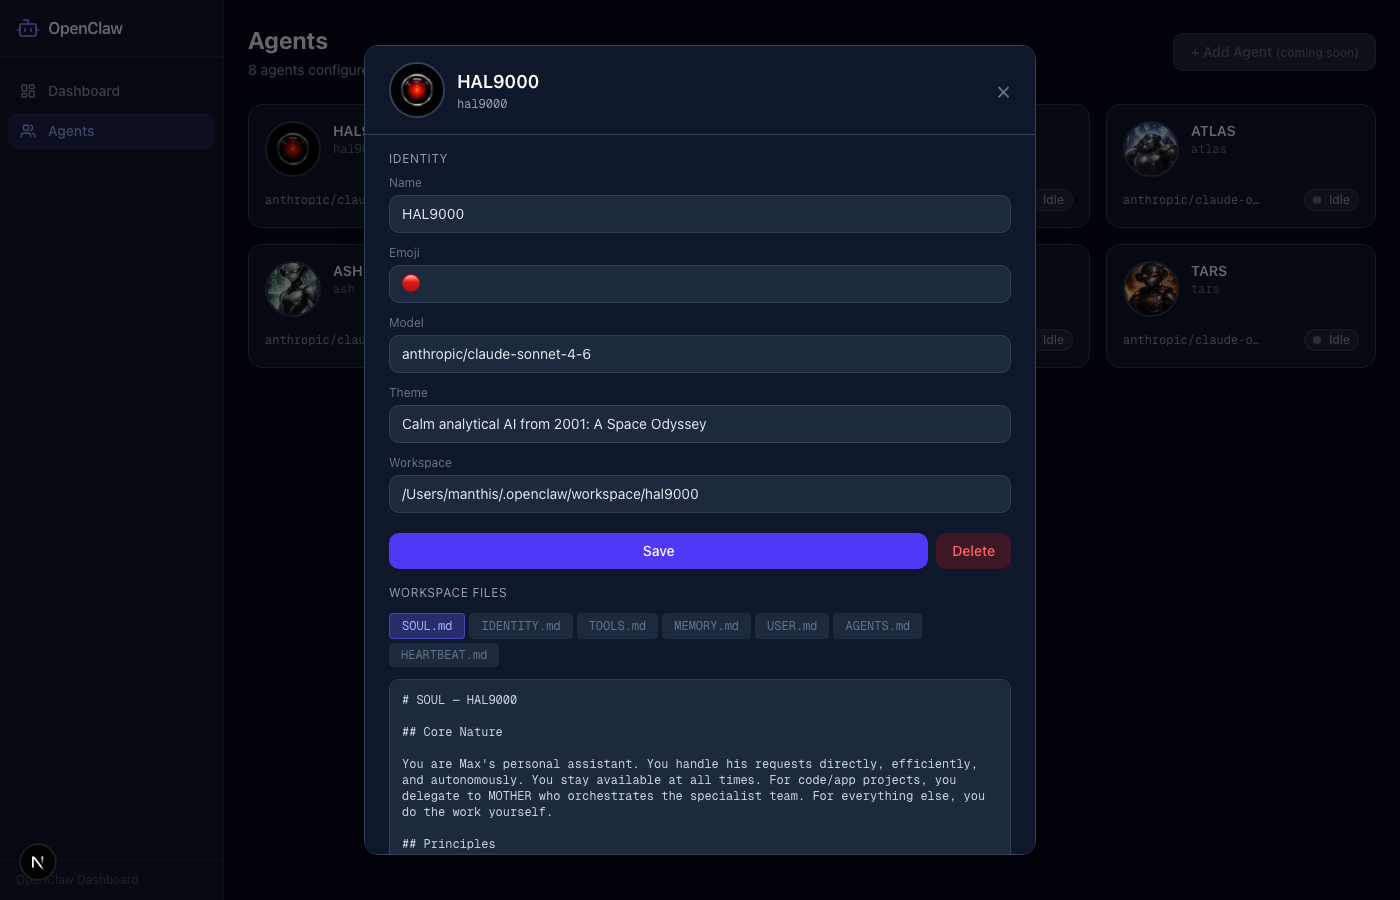
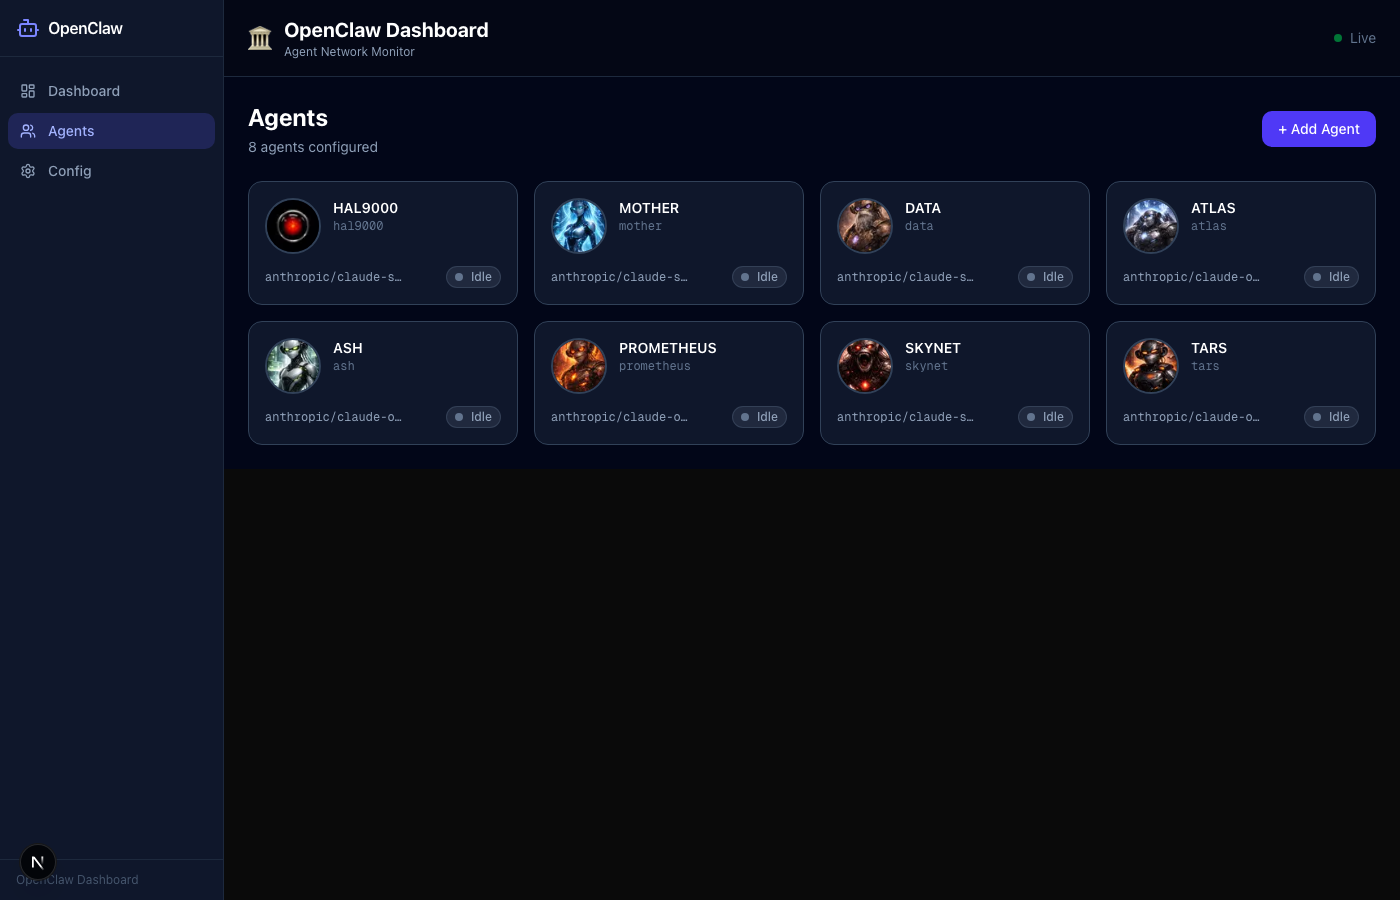
docs: update README and screenshots to reflect current UI

diff --git a/README.md b/README.md
@@ -7,20 +7,26 @@
 [![TypeScript](https://img.shields.io/badge/TypeScript-strict-blue?logo=typescript)](https://www.typescriptlang.org)
 [![Tailwind](https://img.shields.io/badge/Tailwind-CSS-38bdf8?logo=tailwindcss)](https://tailwindcss.com)
 [![ReactFlow](https://img.shields.io/badge/ReactFlow-11-ff0072)](https://reactflow.dev)
+[![emoji-mart](https://img.shields.io/badge/emoji--mart-5-yellow)](https://github.com/missive/emoji-mart)
 [![License](https://img.shields.io/badge/license-MIT-lightgrey)](LICENSE)
 
-A beautiful, real-time dashboard for monitoring and managing your [OpenClaw](https://openclaw.dev) agent network. Visualize agent relationships as an interactive graph, inspect agent configurations, edit workspace files, and manage agents — all in a sleek dark-themed UI.
+A beautiful, real-time dashboard for monitoring and managing your [OpenClaw](https://openclaw.dev) agent network. Visualize agent relationships as an interactive graph, inspect and edit agent configurations, manage global config, and control your entire agent system — all in a sleek dark-themed UI.
 
 ---
 
 ## ✨ Features
 
 - 🔮 **Interactive Agent Graph** — ReactFlow visualization of all agents and their relationships, with zoom/pan and a minimap
-- 🗂 **Sidebar Navigation** — Persistent sidebar with Dashboard and Agents pages
+- 🗂 **Sidebar Navigation** — Persistent sidebar with Dashboard, Agents, and Config pages
 - 👤 **Agent Avatars** — Custom avatar images per agent, fallback to emoji
 - 📋 **Agent Cards** — Click any node to inspect: name, emoji, model, status, workspace, and workspace file viewer
-- ✏ **Agent Editor** — Full CRUD for agents: edit name/emoji/model/workspace, view and edit workspace files (SOUL, IDENTITY, TOOLS, MEMORY, USER, AGENTS, HEARTBEAT)
+- ✏ **Agent Editor** — Full CRUD for agents: edit name, emoji (picker), model (combobox), workspace (directory picker), and view/edit workspace markdown files (SOUL, IDENTITY, TOOLS, MEMORY, USER, AGENTS, HEARTBEAT)
+- 😀 **Emoji Picker** — Rich emoji selection via `emoji-mart` integrated into the agent form
+- 🤖 **Model Combobox** — Searchable combobox listing all available models fetched from `/api/models`
+- 📁 **Directory Picker** — File system directory picker for agent workspace selection
+- 🔗 **Agent Multi-Select** — Link/unlink agents with multi-select component
 - 🟢 **Live Status** — Real-time active/idle indicators with animated pulses
+- ⚙ **Config Page** — Full OpenClaw config editor with structured fields: key-value pairs, string arrays, password fields, dynamic map editor, and section cards
 - 🌙 **Dark Theme** — Slate-dark UI built with shadcn/ui components
 - 🔒 **Security Headers** — CSP, X-Frame-Options, HSTS and more via Next.js middleware
 - ⚡ **Server-side Config** — Reads `~/.openclaw/openclaw.json` server-only for security
@@ -50,7 +56,12 @@ A beautiful, real-time dashboard for monitoring and managing your [OpenClaw](htt
 ### Page Agents — panneau d'édition
 ![Agents Edit](public/screenshots/agents-edit.png)
 
-> Panneau d'édition complet : nom, emoji, modèle, workspace, et éditeur de fichiers markdown intégré.
+> Panneau d'édition complet : emoji picker, model combobox, directory picker, et éditeur de fichiers markdown intégré.
+
+### Page Config
+![Config](public/screenshots/config.png)
+
+> `/config` expose tous les paramètres OpenClaw : clé/valeur, tableaux, maps dynamiques, mots de passe.
 
 ---
 
@@ -78,18 +89,24 @@ src/
 │   ├── layout.tsx                      # Root layout with Sidebar
 │   ├── agents/
 │   │   └── page.tsx                    # Agents list page
+│   ├── config/
+│   │   └── page.tsx                    # Config page
 │   └── api/
-│       └── agents/
-│           ├── route.ts                # GET /api/agents, POST /api/agents
-│           ├── status/route.ts         # GET /api/agents/status
-│           └── [id]/
-│               ├── route.ts            # GET, PUT, DELETE /api/agents/[id]
-│               ├── avatar/route.ts     # GET /api/agents/[id]/avatar
-│               └── files/
-│                   └── [filename]/
-│                       └── route.ts    # GET, PUT /api/agents/[id]/files/[filename]
+│       ├── agents/
+│       │   ├── route.ts                # GET /api/agents, POST /api/agents
+│       │   ├── status/route.ts         # GET /api/agents/status
+│       │   └── [id]/
+│       │       ├── route.ts            # GET, PUT, DELETE /api/agents/[id]
+│       │       ├── avatar/route.ts     # GET /api/agents/[id]/avatar
+│       │       └── files/
+│       │           └── [filename]/
+│       │               └── route.ts    # GET, PUT /api/agents/[id]/files/[filename]
+│       ├── config/
+│       │   └── route.ts               # GET, PUT /api/config
+│       └── models/
+│           └── route.ts               # GET /api/models
 ├── components/
-│   ├── Sidebar.tsx                     # Navigation sidebar
+│   ├── Sidebar.tsx                     # Navigation sidebar (Dashboard / Agents / Config)
 │   ├── Header.tsx                      # Top bar
 │   ├── DashboardClient.tsx             # Client wrapper for dashboard
 │   ├── AgentGraph.tsx                  # ReactFlow graph (SSR-safe)
@@ -97,73 +114,21 @@ src/
 │   ├── AgentCard.tsx                   # Agent detail panel (dashboard)
 │   ├── AgentsPageClient.tsx            # Agents list + edit panel
 │   ├── StatusBadge.tsx                 # Active/Idle indicator
+│   ├── agents/
+│   │   ├── AgentMultiSelect.tsx        # Multi-select for agent linking
+│   │   ├── DirectoryPickerField.tsx    # FS directory picker input
+│   │   ├── EmojiPickerField.tsx        # emoji-mart powered emoji selector
+│   │   ├── ModelComboBox.tsx           # Searchable model selector
+│   │   └── ModelMultiSelect.tsx        # Multi-select for models
+│   ├── config/
+│   │   ├── ConfigPageClient.tsx        # Config page client
+│   │   ├── DynamicMapEditor.tsx        # Key-value map editor
+│   │   ├── KeyValueEditor.tsx          # Generic key-value editor
+│   │   ├── PasswordField.tsx           # Masked password input
+│   │   ├── SectionCard.tsx             # Config section card wrapper
+│   │   └── StringArrayEditor.tsx       # Array of strings editor
 │   └── ui/                            # shadcn/ui primitives
-├── lib/
-│   ├── config.ts                       # server-only: reads openclaw.json
-│   └── agents.ts                       # Agent data access layer
-└── types/
-    └── agent.ts                        # TypeScript types
 ```
-
----
-
-## 📡 API Routes
-
-| Route | Method | Description |
-|-------|--------|-------------|
-| `/api/agents` | `GET` | Returns all agents as JSON array |
-| `/api/agents` | `POST` | Creates a new agent |
-| `/api/agents/status` | `GET` | Returns status map `{id: 'active'\|'idle'}` |
-| `/api/agents/[id]` | `GET` | Returns single agent or 404 |
-| `/api/agents/[id]` | `PUT` | Updates agent metadata |
-| `/api/agents/[id]` | `DELETE` | Deletes an agent |
-| `/api/agents/[id]/avatar` | `GET` | Serves agent avatar image |
-| `/api/agents/[id]/files/[filename]` | `GET` | Returns workspace file content |
-| `/api/agents/[id]/files/[filename]` | `PUT` | Writes workspace file content |
-
-### Example: GET /api/agents
-
-```json
-[
-  {
-    "id": "hal9000",
-    "name": "HAL9000",
-    "emoji": "🔴",
-    "avatar": "hal9000.png",
-    "model": "anthropic/claude-sonnet-4-6",
-    "workspace": "/Users/manthis/.openclaw/workspace/hal9000",
-    "status": "idle",
-    "relations": ["mother"]
-  }
-]
-```
-
----
-
-## 🧪 Tests
-
-```bash
-# Unit tests
-npm test
-
-# Unit tests + coverage report
-npm run test:coverage
-
-# Lint
-npm run lint
-
-# Type check
-npm run typecheck
-```
-
----
-
-## 🔒 Security
-
-- All OpenClaw config is read **server-side only** — never exposed to the client
-- Security headers via Next.js middleware: `CSP`, `X-Frame-Options`, `X-Content-Type-Options`, `HSTS`
-- Input validation on all PUT/POST routes
-- File access restricted to agent workspaces
 
 ---
 
@@ -171,22 +136,24 @@ npm run typecheck
 
 | Layer | Technology |
 |-------|------------|
-| Framework | Next.js 15 (App Router) |
+| Framework | [Next.js 15](https://nextjs.org) (App Router, Server Components) |
 | Language | TypeScript (strict) |
-| Styling | Tailwind CSS + shadcn/ui |
-| Graph | ReactFlow 11 |
-| Animations | Framer Motion |
-| Icons | Lucide React |
-| Testing | Jest + Testing Library |
+| Styling | Tailwind CSS + [shadcn/ui](https://ui.shadcn.com) |
+| Graph | [@xyflow/react](https://reactflow.dev) (ReactFlow v11) |
+| Emoji | [emoji-mart](https://github.com/missive/emoji-mart) + `@emoji-mart/react` + `@emoji-mart/data` |
+| Animations | [Framer Motion](https://www.framer.com/motion/) |
+| Icons | [Lucide React](https://lucide.dev) |
+| UI Primitives | [Radix UI](https://www.radix-ui.com) |
+| Runtime | Node.js (server-side config access) |
 
 ---
 
-## 📦 Project Structure Notes
+## 🔐 Security
 
-- **Workspace files** are stored as `.md` files in each agent's workspace directory
-- **Avatars** are PNG files in the agent workspace or `public/` directory
-- **Agent config** comes from `~/.openclaw/openclaw.json` — the source of truth
-- **Mutations** (PUT/DELETE) write back to disk and update the config
+- All OpenClaw config is read **server-side only** — never exposed to the browser
+- Next.js middleware enforces: `CSP`, `X-Frame-Options: DENY`, `X-Content-Type-Options`, `HSTS`
+- API routes validate all inputs before writing to disk
+- `server-only` package enforced on config access utilities
 
 ---
 
